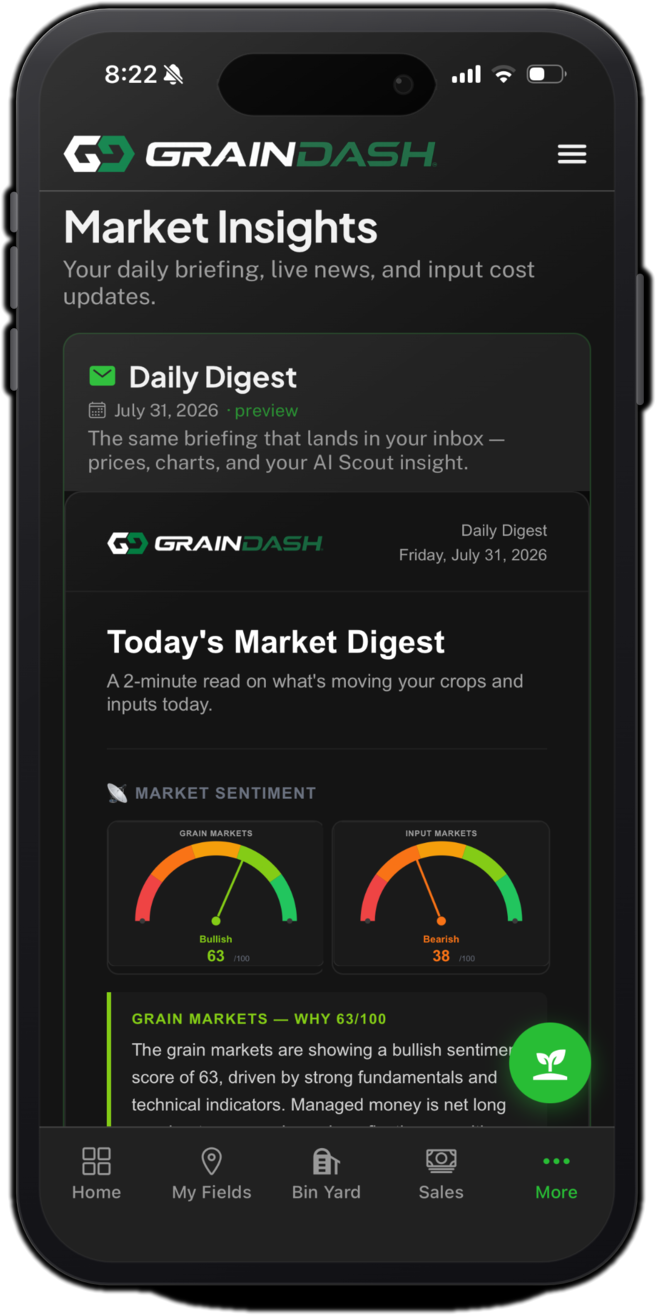
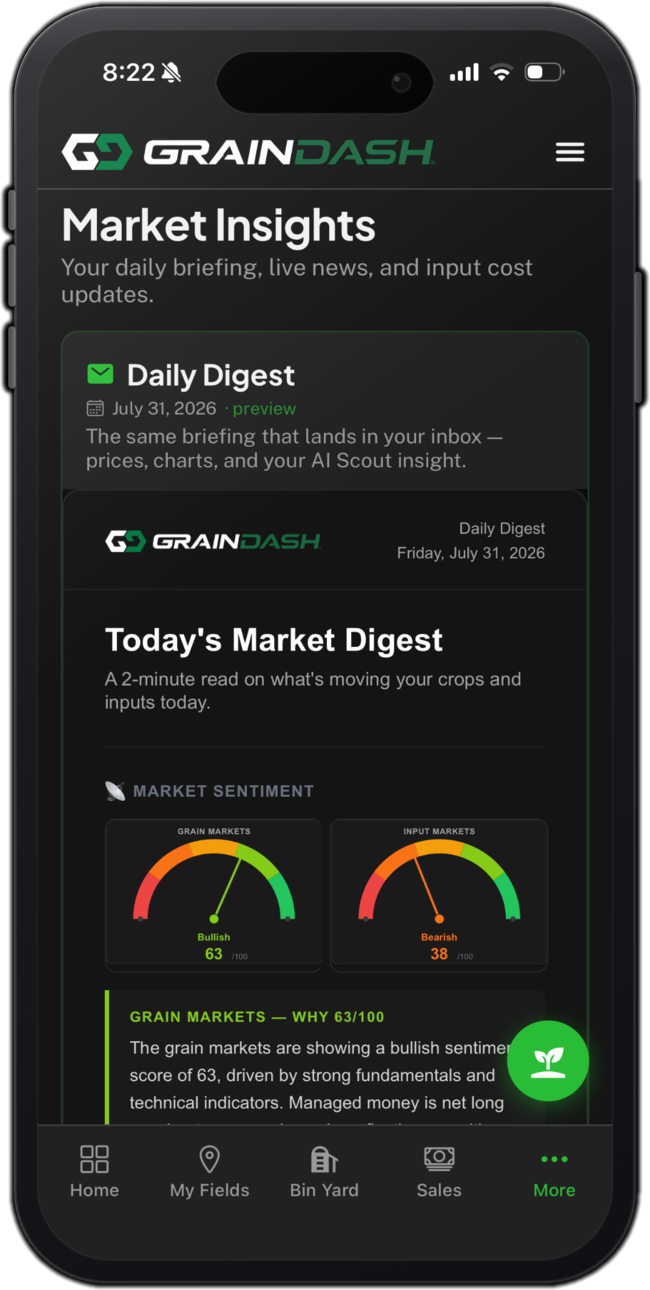
Update documentation and add visual assets to index page
Replit-Commit-Author: Agent

diff --git a/index.html b/index.html
@@ -108,12 +108,15 @@ section.block{padding:88px 0;position:relative;}
 
 /* digest */
 .digest{position:relative;overflow:hidden;}
-.digest-glow{position:absolute;top:50%;right:2%;transform:translateY(-50%);width:620px;height:760px;background:radial-gradient(ellipse at center,rgba(40,189,53,.26),rgba(40,189,53,.06) 55%,transparent 72%);filter:blur(20px);pointer-events:none;}
+.digest-glow{position:absolute;top:50%;right:0;transform:translateY(-50%);width:780px;height:900px;pointer-events:none;background:
+  radial-gradient(ellipse 42% 38% at 52% 50%,rgba(64,224,94,.18),transparent 68%),
+  radial-gradient(ellipse 68% 62% at 50% 52%,rgba(40,189,53,.09),transparent 72%),
+  radial-gradient(ellipse 95% 90% at 50% 55%,rgba(40,189,53,.045),transparent 78%);}
 .digest-grid{position:relative;z-index:1;display:grid;grid-template-columns:1fr 1fr;gap:56px;align-items:center;}
 .digest h2{font-size:clamp(1.8rem,3.6vw,2.6rem);}
 .digest .lead{margin:18px 0 26px;color:var(--muted);font-size:1.1rem;}
 .digest-phone{display:flex;justify-content:center;align-items:center;}
-.digest-phone img{height:clamp(420px,52vh,580px);width:auto;max-width:100%;filter:drop-shadow(0 24px 44px rgba(0,0,0,.7));}
+.digest-phone img{height:clamp(420px,52vh,580px);width:auto;max-width:100%;filter:drop-shadow(0 14px 30px rgba(0,0,0,.45)) drop-shadow(0 40px 80px rgba(0,0,0,.3));}
 html.js .digest-phone.sc-anim{transform:translateY(40px) translateX(28px) scale(.96);transition-delay:.12s;}
 html.js .digest-phone.sc-anim.in{transform:none;}
 /* scout */
@@ -257,7 +260,7 @@ html.js .phone.sc-anim.in{transform:none;}
   .digest-grid{grid-template-columns:1fr;gap:28px;}
   .digest-phone{justify-content:center;}
   .digest-phone img{height:clamp(380px,95vw,480px);width:auto;max-width:90%;}
-  .digest-glow{top:auto;bottom:0;right:50%;transform:translate(50%,20%);width:420px;height:520px;}
+  .digest-glow{top:auto;bottom:0;right:50%;transform:translate(50%,15%);width:480px;height:600px;}
 }
 @media(max-width:760px){
   body{font-size:16px;}
@@ -275,7 +278,7 @@ html.js .phone.sc-anim.in{transform:none;}
   .foot-top{grid-template-columns:1fr 1fr;gap:26px;}
   .hero-cta .btn{width:100%;}
   .hero-logo{width:min(320px,80vw);margin-bottom:24px;}
-  .hero-chips{display:grid;grid-template-columns:repeat(2,1fr);gap:12px;width:100%;margin-top:40px;}
+  .hero-chips{display:grid;grid-template-columns:1fr;gap:12px;width:100%;margin-top:40px;}
   .chip{position:relative;overflow:hidden;flex-direction:column;justify-content:center;text-align:center;gap:12px;padding:22px 12px;border-radius:16px;font-size:.88rem;line-height:1.3;letter-spacing:.015em;color:#f1f5ef;text-shadow:0 2px 4px rgba(0,0,0,.6);background:linear-gradient(160deg,rgba(22,28,22,.45) 0%,rgba(10,14,10,.55) 100%);border-color:rgba(255,255,255,.08);-webkit-backdrop-filter:blur(28px) saturate(150%);backdrop-filter:blur(28px) saturate(150%);box-shadow:0 12px 32px -6px rgba(0,0,0,.6),inset 0 1px 0 0 rgba(255,255,255,.15),inset 0 0 24px 0 rgba(40,189,53,.04),inset 0 -1px 0 0 rgba(255,255,255,.02);text-wrap:balance;}
   .chip::before{content:"";position:absolute;inset:0;background:radial-gradient(ellipse at 50% -20%,rgba(40,189,53,.2),transparent 75%);opacity:.7;pointer-events:none;}
   .chip::after{content:"";position:absolute;inset:0;background:linear-gradient(135deg,rgba(255,255,255,.08) 0%,transparent 40%);opacity:.6;pointer-events:none;}
@@ -433,7 +436,7 @@ html.js .phone.sc-anim.in{transform:none;}
     </ul>
   </div>
   <div class="digest-phone sc-anim" data-reveal>
-    <img src="assets/phone-digest.png" alt="GrainDash Daily Digest on an iPhone" loading="lazy" width="656" height="1315"/>
+    <img src="assets/phone-digest.png" alt="GrainDash Daily Digest on an iPhone" loading="lazy" width="650" height="1290"/>
   </div>
 </div></section>
 

diff --git a/.agents/memory/visual-qa-static-site.md b/.agents/memory/visual-qa-static-site.md
@@ -21,3 +21,6 @@ The user's device-mockup PNGs carry a near-invisible alpha veil (alpha ~1-10) ac
 
 ## Retina resolution rule for device renders
 Export device-render PNGs at ~2x their largest CSS display size, or they look soft/blurry on high-DPI screens even though they look fine in 1x screenshots. **Why:** the digest phone displayed ~290px wide from a 455px asset (580px retina needed) and the user saw it as "not polished" vs the hero showcase phone shown at 218px. **How to apply:** before processing a render, check its max CSS display width/height, double it, and resize from the full-res source (attached_assets originals are 1500×2700).
+
+## Baked-in ground shadows in device renders
+Original renders can include a semi-opaque ground shadow below the device; a threshold-50% silhouette mask keeps it, showing a "black blob" on the page. **How to apply:** raise the alpha threshold (~65%) and keep only the largest connected component (`-define connected-components:area-threshold=5000 -define connected-components:mean-color=true -connected-components 8`) before dilate/blur. Also: single blurred radial gradients look cheap/bandy for glows — layer 2-3 radial-gradients at decreasing alpha with no blur filter instead.
